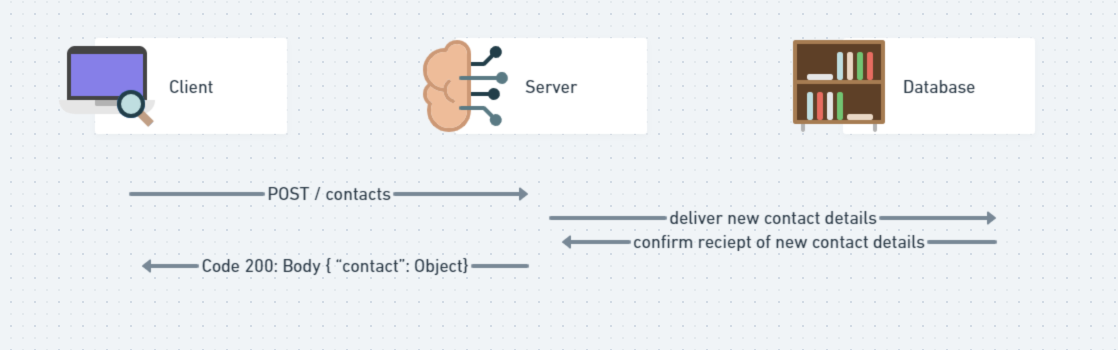
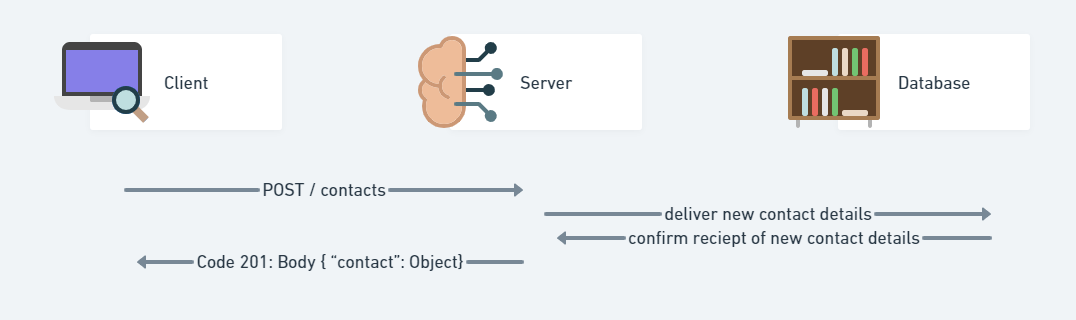
GET by id

diff --git a/index.js b/index.js
@@ -32,22 +32,32 @@ app.use(cors())
 // Allows json to be processed in express
 app.use(express.json())
 
-// -------- GETS --------
+// ---------------- GETS ----------------
 
-// the brackers are a callvack funtionm, they will runw hen the user makes a GET request
-app.get('/', (request, response) => {
-    console.log("Someone made a GET request to /");
-    // sends a response from the server to the client
-    // response.send("Great work")
-    response.json({message: 'I\'m getting!'})
-})
-
+// ---- ALL CONTACTS ----
 app.get("/contacts", (request, response) => {
     console.log("Someone made a GET Contacts request to /");
     // sends a response from the server to the client
     // response.send("Great work")
     response.json({ contacts });
 });
+
+// ---- SINGLE CONTACT BY ID ----
+app.get("/contacts/:id", (request, response) => {
+    const id = Number(request.params.id)
+    console.log("id", id);
+    const contact = contacts.find(contact => contact.id === id)
+    console.log("Contact by ID", contact);
+    response.json({ contact });
+});
+
+// // the brackers are a callvack funtionm, they will runw hen the user makes a GET request
+// app.get('/', (request, response) => {
+//     console.log("Someone made a GET request to /");
+//     // sends a response from the server to the client
+//     // response.send("Great work")
+//     response.json({message: 'I\'m getting!'})
+// })
 
 // app.get("/meetings", (request, response) => {
 //   console.log("Someone made a GET Meetings request to /");
@@ -56,7 +66,17 @@ app.get("/contacts", (request, response) => {
 //   response.json({ meetings });
 // });
 
-// -------- POST --------
+// ---------------- POSTS ----------------
+// ---- POST SINGLE CONTACT ----
+app.post("/contacts", (request, response) => {
+    const contact = request.body 
+    contact.id = contacts.length +1
+    console.log("Body", request.body);
+    contacts.push(contact)
+    // response.send("Contact updated!");
+    response.status(201).json({ contact });
+    // response.json(contacts)
+});
 
 // app.post('/', (request, response) => {
 //     console.log("Someone made a POST request to /");
@@ -65,16 +85,6 @@ app.get("/contacts", (request, response) => {
 //     response.json({ message: "Post was made" });
 // })
 
-app.post("/contacts", (request, response) => {
-    const contact = request.body 
-    contact.id = contacts.length +1
-    console.log("Body", request.body);
-    contacts.push(contact)
-    // response.send("Contact updated!");
-    response.json({ contact });
-    // response.json(contacts)
-
-});
 
 //Start up our server
 const port = 3030
